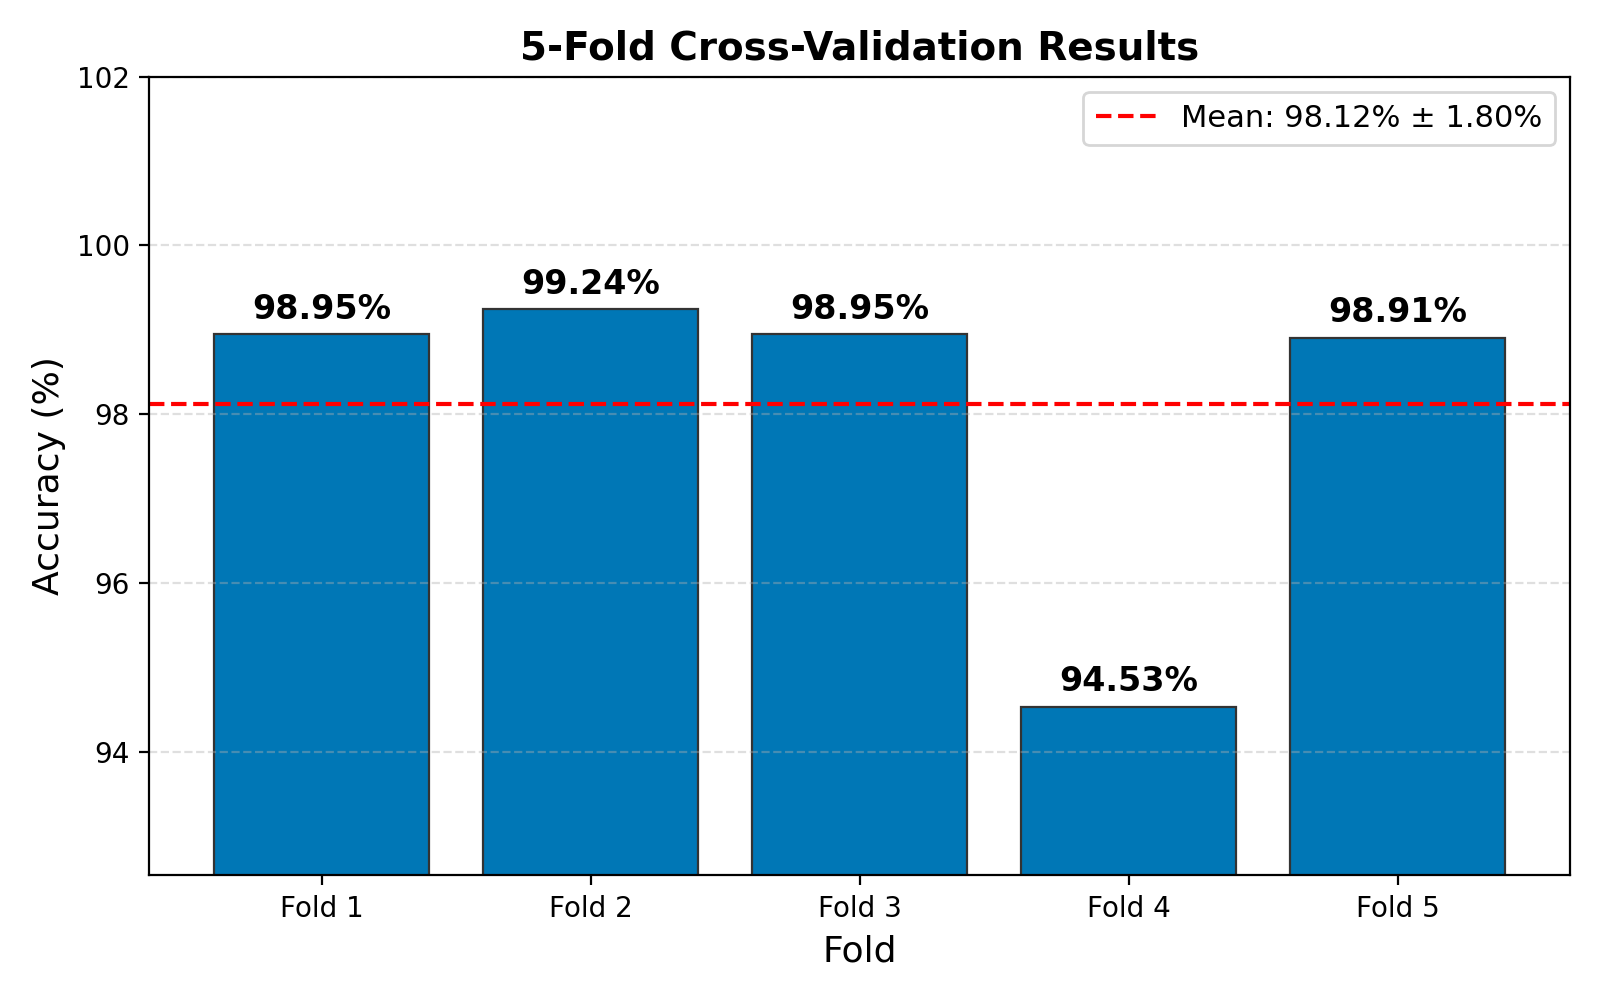
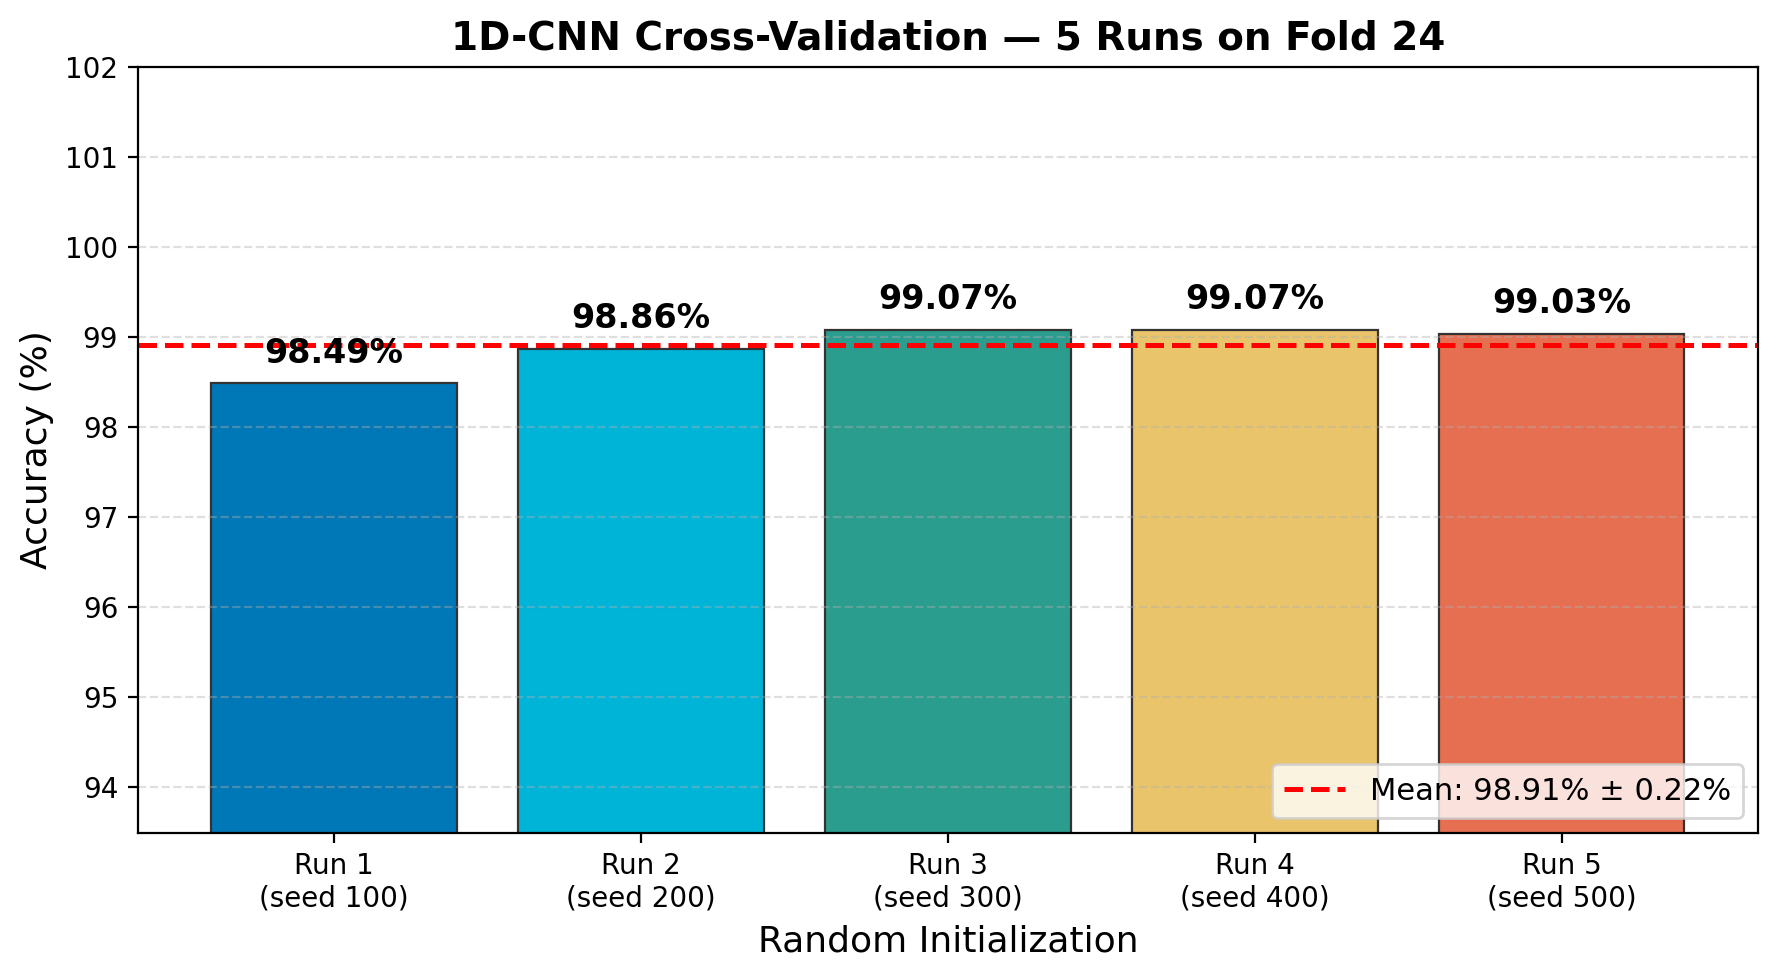
Added Crosss Validation Graphs

diff --git a/1d cnn/08_repeated_kfold_cv.py b/1d cnn/08_repeated_kfold_cv.py
@@ -26,6 +26,9 @@ import numpy as np
 import pandas as pd
 from sklearn.preprocessing import LabelEncoder
 from sklearn.model_selection import RepeatedStratifiedKFold
+import matplotlib
+matplotlib.use("Agg")
+import matplotlib.pyplot as plt
 
 PROJECT_DIR = os.path.dirname(os.path.abspath(__file__))
 os.chdir(PROJECT_DIR)
@@ -169,6 +172,38 @@ def main():
     print("\nIndividual run accuracies:")
     for i, a in enumerate(accuracies):
         print(f"  Run {i+1}: {a:.2f}%")
+
+    # ── 5. Save Cross-Validation Graph ─────────────────────────────────────────
+    out_dir = os.path.join(PROJECT_DIR, "presentation_outputs")
+    os.makedirs(out_dir, exist_ok=True)
+
+    fig, ax = plt.subplots(figsize=(9, 5))
+    run_labels = [f"Run {i+1}\n(seed {(i+1)*100})" for i in range(NUM_RUNS)]
+    colors = ['#0077B6', '#00B4D8', '#2A9D8F', '#E9C46A', '#E76F51']
+    bars = ax.bar(run_labels, accuracies, color=colors[:NUM_RUNS],
+                  edgecolor='#333', linewidth=0.8)
+
+    for bar, val in zip(bars, accuracies):
+        ax.text(bar.get_x() + bar.get_width() / 2, bar.get_height() + 0.15,
+                f'{val:.2f}%', ha='center', va='bottom', fontsize=12,
+                fontweight='bold')
+
+    ax.axhline(y=mean_acc, color='red', linestyle='--', linewidth=1.8,
+               label=f'Mean: {mean_acc:.2f}% ± {std_acc:.2f}%')
+
+    ax.set_ylim(max(0, min(accuracies) - 5), 102)
+    ax.set_xlabel("Random Initialization", fontsize=13)
+    ax.set_ylabel("Accuracy (%)", fontsize=13)
+    ax.set_title(f"1D-CNN Cross-Validation — {NUM_RUNS} Runs on Fold {TARGET_INDEX}",
+                 fontsize=14, fontweight='bold')
+    ax.legend(fontsize=11, loc='lower right')
+    ax.grid(axis='y', linestyle='--', alpha=0.4)
+
+    fig.tight_layout()
+    path = os.path.join(out_dir, "08_cross_validation.png")
+    fig.savefig(path, dpi=200, bbox_inches='tight')
+    plt.close(fig)
+    print(f"\n  Saved graph → {path}")
 
 
 if __name__ == "__main__":
